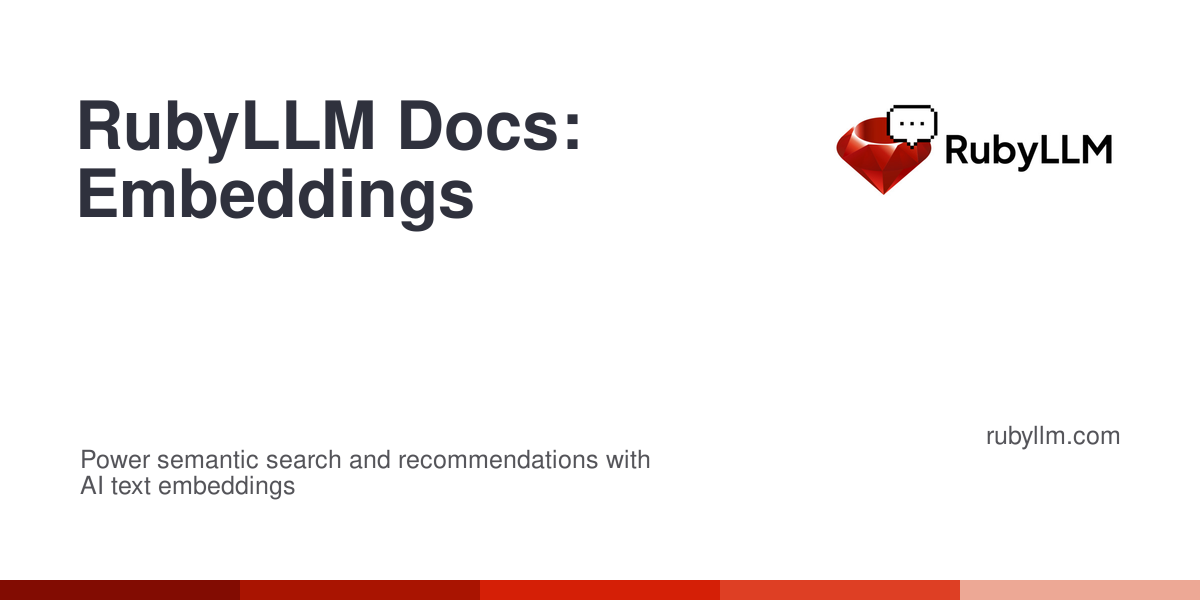
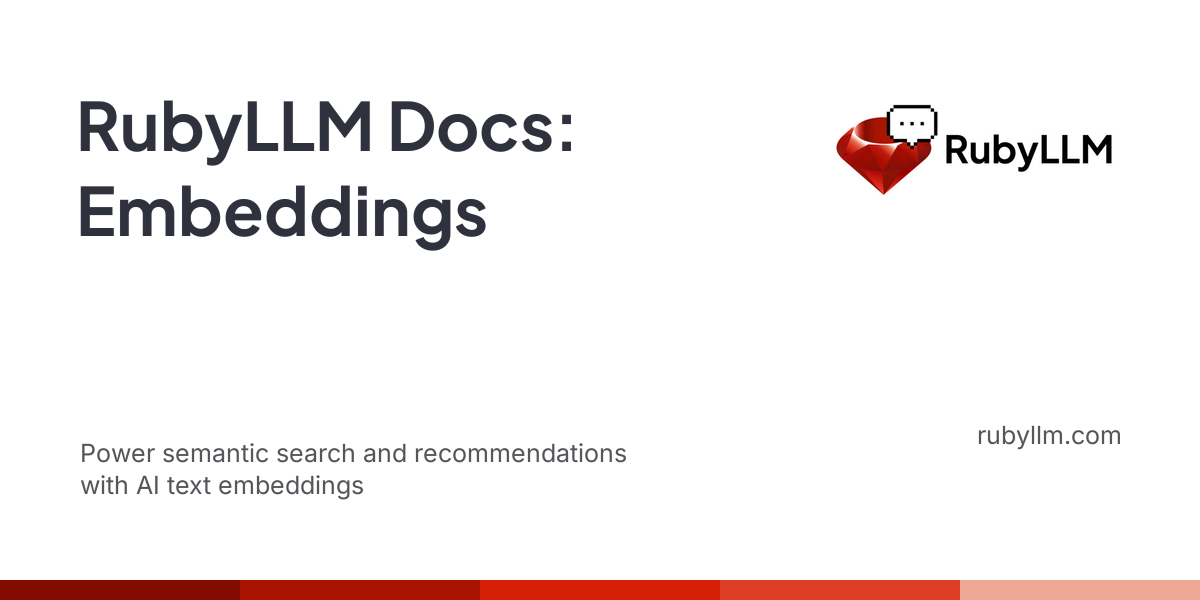
ci: install fonts for jekyll-og-image generation
Add Plus Jakarta Sans and Inter fonts to the docs workflow to ensure
proper rendering of Open Graph images with the configured typography

Changed region(s): [[0.0617, 0.15, 0.4933, 0.42], [0.0617, 0.72, 0.555, 0.84], [0.8017, 0.69, 0.925, 0.75]]

diff --git a/docs/guides/index.md b/docs/guides/index.md
@@ -10,3 +10,4 @@ description: Learn to build with AI. From chat basics to production Rails apps, 
 # RubyLLM Guides
 
 Everything you need to know to build amazing AI features in Ruby.
+{: .fs-6 .fw-300 }
